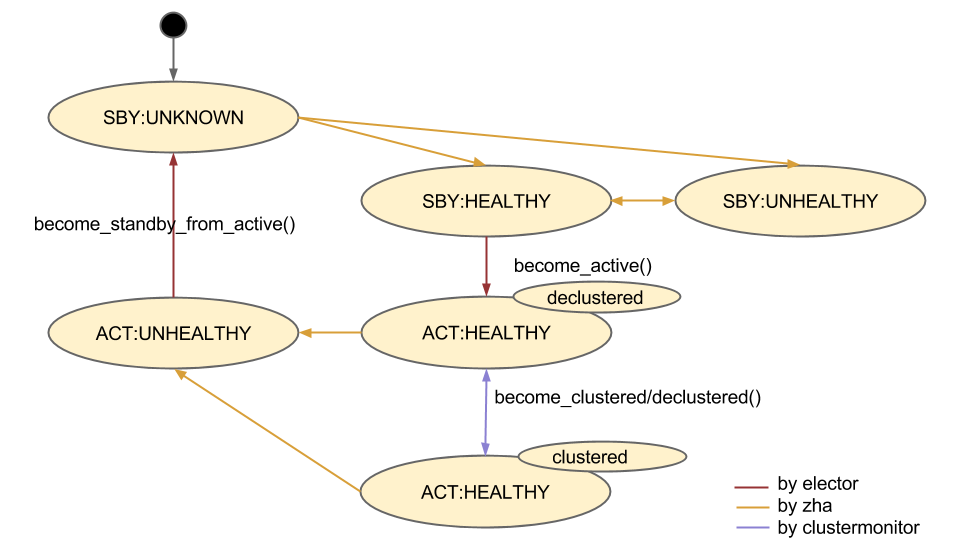
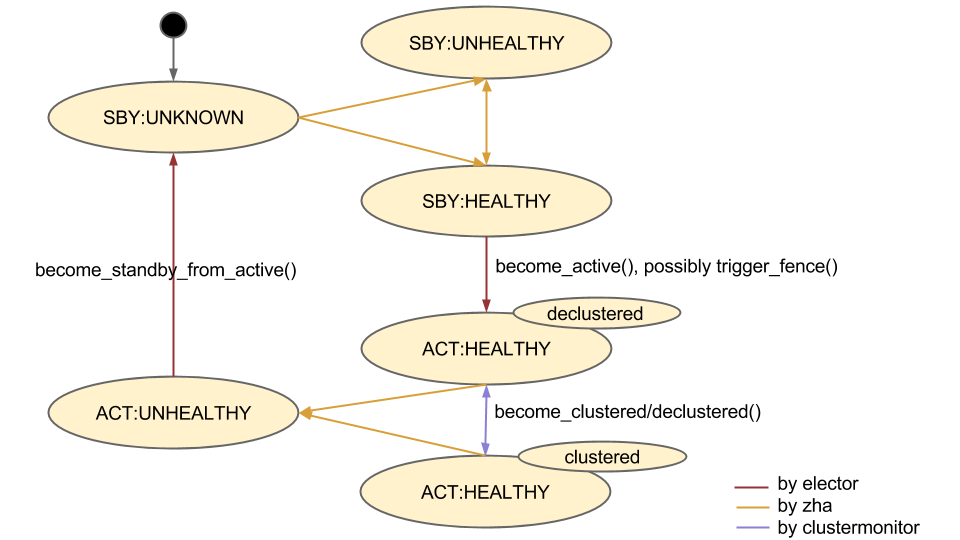
updated document.

diff --git a/README.md b/README.md
@@ -4,9 +4,14 @@ Zha is a small python library that delivers high availability to an arbitary
 program.  Zha leverages Apache ZooKeeper and its python bindings kazoo, and is
 inspired from Apache Hadoop (HDFS ZKFC).
 
-Not familiar with python? No problem. Zha provides skelton program `skelton.py`,
+Not familiar with python? No problem. Zha provides scatfold program `skelton.py`,
 in which all callbacks are already implemented as invoking shell scripts.
 So with `skelton.py`, you can realize high availavility with any languages.
+
+Technically, zha is a statemachine with callbacks, by which automatic failover
+can be fullfilled.
+
+![StateMachine] (doc/StateMachine.png)
 
 This project is WIP, no stable release yet.
 
@@ -25,20 +30,7 @@ sudo pip install kazoo
 sudo pip install six --upgrade
 ```
 
-## LICENCE
-
-BSD, as embedded in `zha.py`
-
-## Releases
-
-- 2015/06/10: ver 0.1.1. RC release.
-- 2015/06/05: ver 0.1.0. This is a beta release.
-
-## Articles
-
-- http://qiita.com/sakamotomsh/items/c073bb662cff1c00decc
-
-## What zha provides
+## What zha do
 
 High availability cluster consists of one active process (ACT) and multiple
 standby processes (SBYs). When ACT faults, one of SBYs is selected as a new ACT
@@ -133,11 +125,35 @@ trigger_fence():
     This SHOULD always succeed, otherwise this zha stops failover.
 ```
 
-![StateMachine] (doc/StateMachine.png)
 
 ## Configuration
 
-TBW.
+All configuration parameter and its default value is listed as comment lines in `skelton.py`,
+which is extracted as below:
+
+```
+"id":                   "hostA",
+#"connection_string":   "127.0.0.1:2181",
+#"lock_znode":          "/zha-lock",
+#"abc_znode":           "/zha-abc",
+#"cluster_znode":       "/zha-state",
+#"clustercheck_interval":3,
+#"healthcheck_interval":5,
+#"elector_interval":    3,
+#"health_dms_timeout":  10,
+#"cluster_dms_timeout": 10,
+```
+
+`id` is zha identity, so its value must be unique in your cluster, so it is recommended
+to name it as hostname or hostname+servicename.`connection_string` specifies zookeeper
+emsemble. it should be colon separated string e.g. `zk1:2181,zk2:2181,zk3:2181`.
+`lock_znode`,`abc_znode`,and`cluster_znode` is a state store that all zha instance share,
+so they are all identical for all zha instances. If you use zha for multiple service failover,
+they should be changed such as `/zha-lock-mysql` or something.
+
+`clustercheck_interval`,`healthcheck_interval`,`elector_interval`,`health_dms_timeout`,
+and `cluster_dms_timeout` are all measured as seconds, and are internal timeout/interval,
+whose specification is TBW.
 
 ## Administration
 
@@ -185,4 +201,18 @@ at once, and b) deleting `abc_znode` by zkcli.
 ### Need manual failover?
 
 Send SIGINT to the zha on the ACT node.
+
+
+## LICENCE
+
+BSD, as embedded in `zha.py`
+
+## Releases
+
+- 2015/06/10: ver 0.1.1. RC release.
+- 2015/06/05: ver 0.1.0. This is a beta release.
+
+## Articles
+
+- http://qiita.com/sakamotomsh/items/c073bb662cff1c00decc
 
